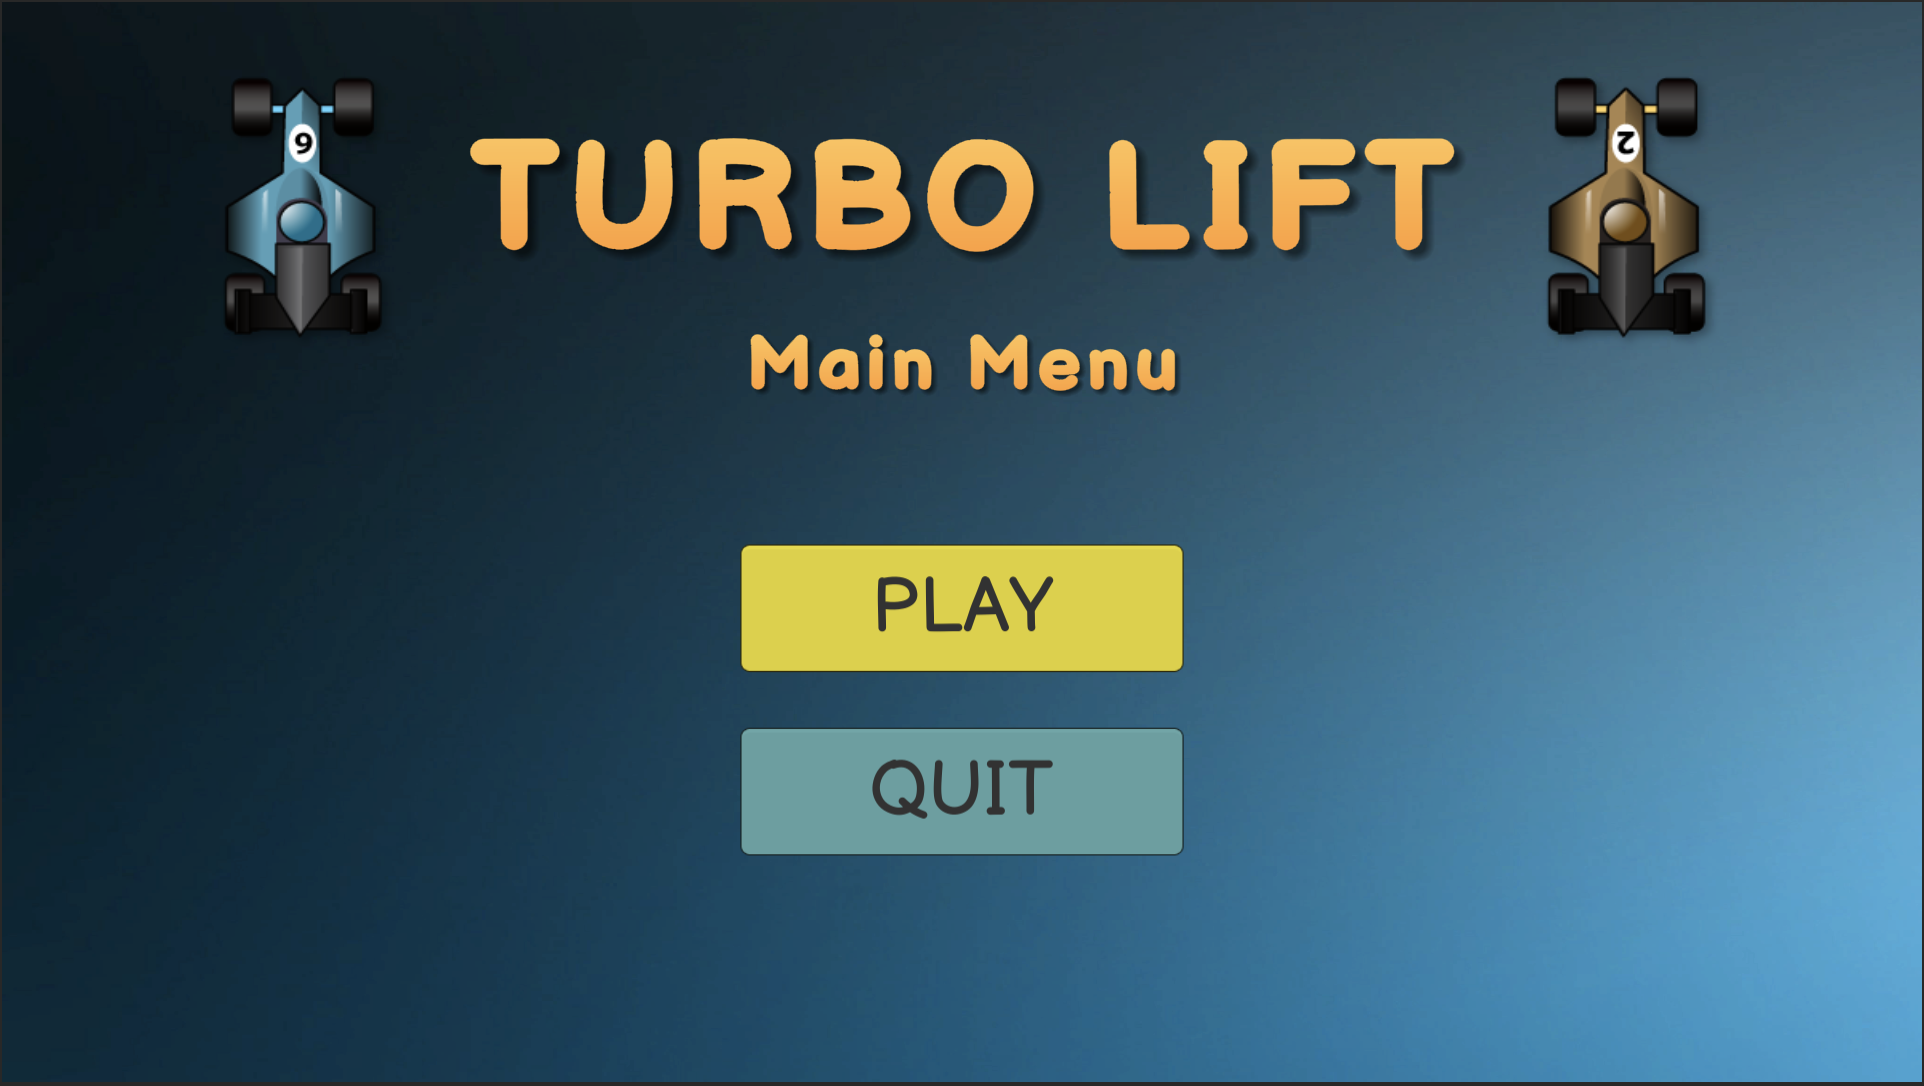
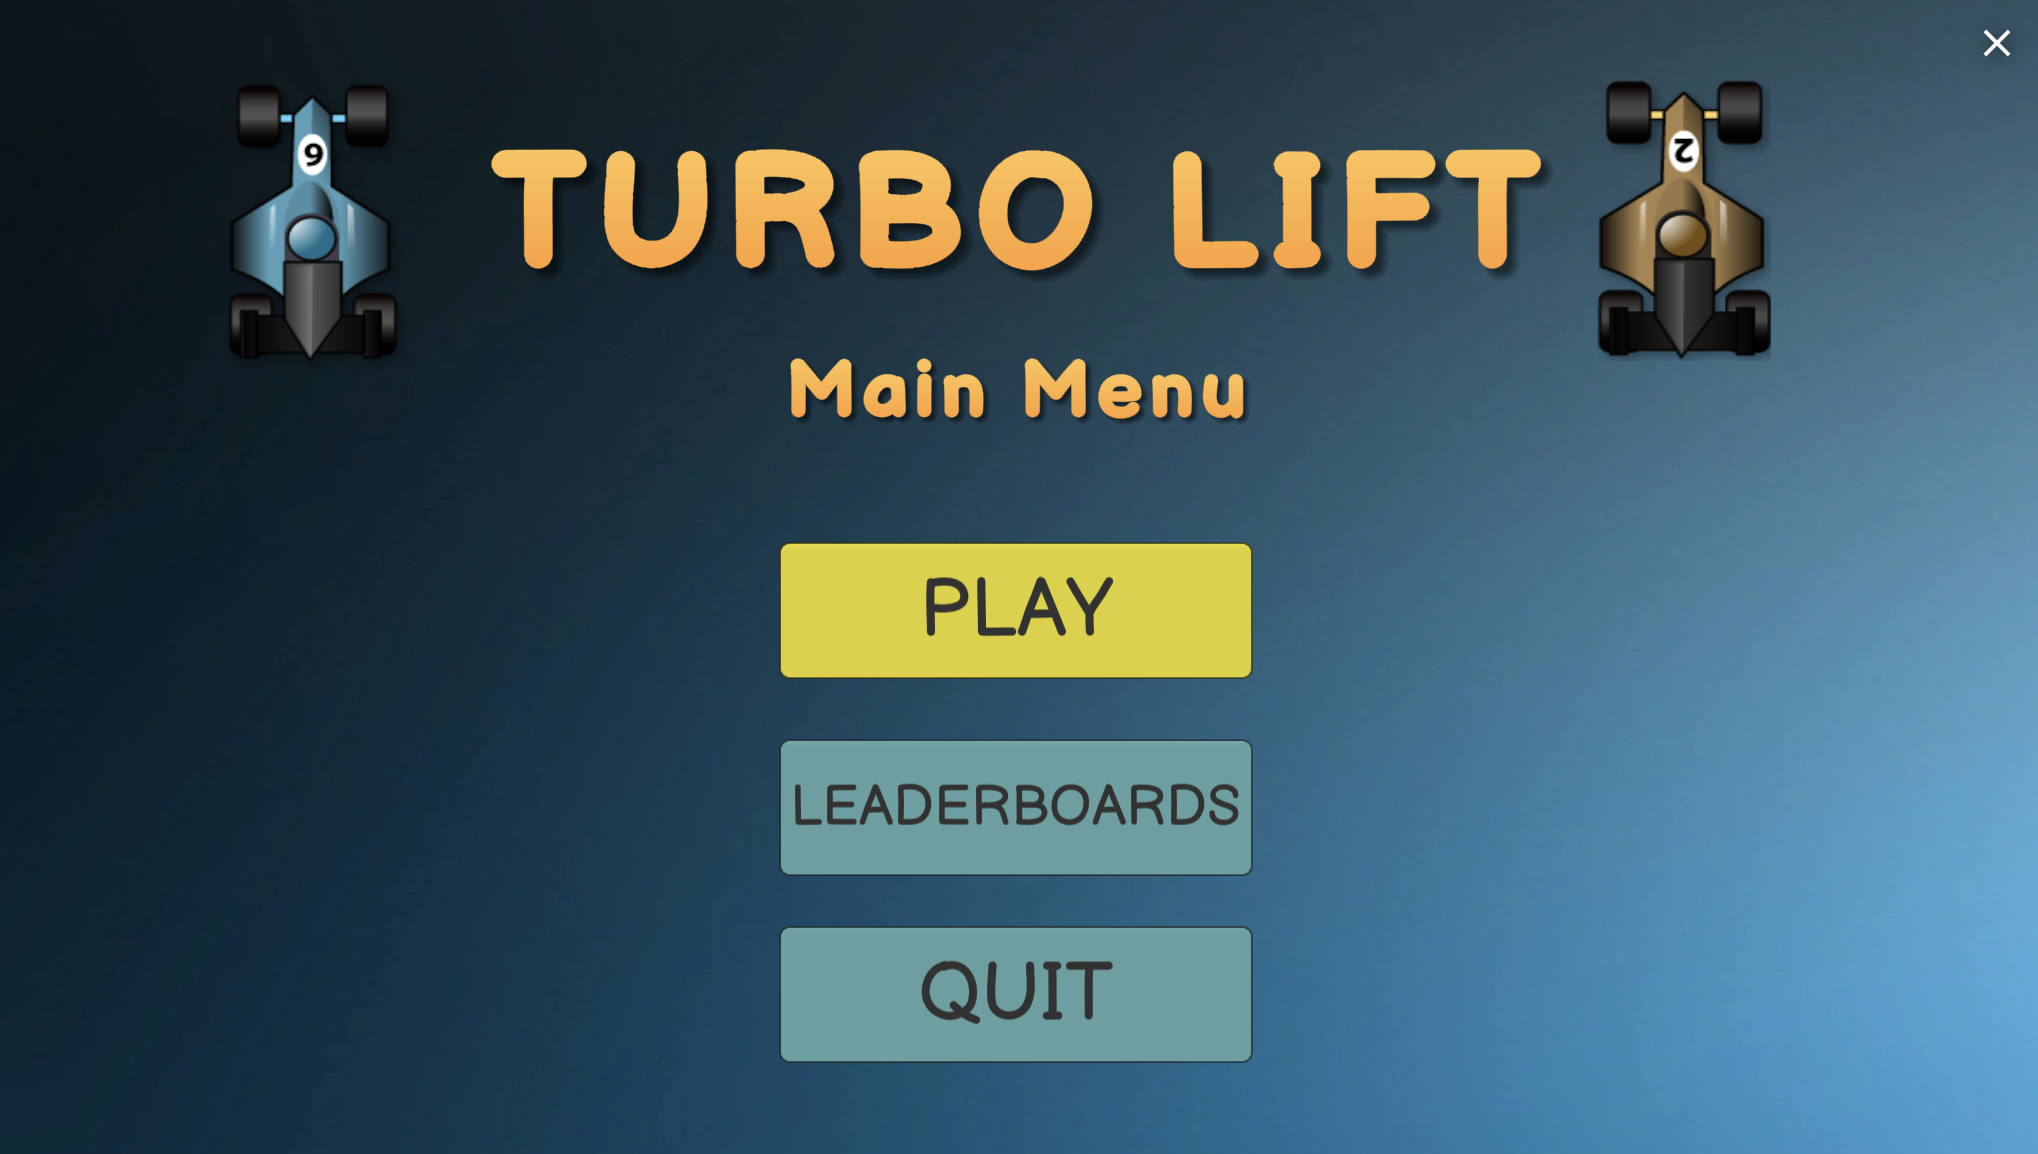
update readme

diff --git a/README.md b/README.md
@@ -3,21 +3,29 @@
 </p>
 
 <h1 align="center"> Turbo Lift </h1>
-<h3 align="center"> Bilal Afzaal </h3>
+<h2 align="center"> Group Members: </h3>
+<h3 align="center"> Bilal Afzaal - bafzaal </h3>
+<h3 align="center"> Osman Abdalle - oabdalle </h3>
+<h3 align="center"> Jayson Pols - jpols </h3>
+
 <h4 align="center"> PLAY HERE: </h4>
-<h6 align="center"><a href="https://play.unity.com/mg/other/turbo-lift-v1">https://play.unity.com/mg/other/turbo-lift-v1</a></h6>
+<h6 align="center"><a href="https://play.unity.com/mg/other/turbolift">https://play.unity.com/mg/other/turbolift</a></h6>
 
 
 <!-- TABLE OF CONTENTS -->
 ## Table of Contents
 
-* [About the Project](#about-the-project)
-  * [Overview](#overview)
-  * [App Screenshots](#app-screenshots)
-  * [Built With](#built-with)
-* [How To Play](#how-to-play)
-  * [Objective](#objective)
-  * [Controls](#controls)
+- [Table of Contents](#table-of-contents)
+- [About The Project](#about-the-project)
+  - [Overview](#overview)
+  - [App Screenshots](#app-screenshots)
+  - [Built With](#built-with)
+- [How To Play](#how-to-play)
+  - [Objective](#objective)
+  - [HUD](#hud)
+  - [Gameplay](#gameplay)
+  - [Maps](#maps)
+  - [Controls](#controls)
 
 <!-- ABOUT THE PROJECT -->
 ## About The Project
@@ -50,6 +58,7 @@ HUD Element             |  Description
 :-------------------------:|:-------------------------:
 <img src="READMEAssets/PassengerHUD.png" title="Passenger HUD" width="80px" height="40px">  | <p> First value indicates the amount of passengers that have been picked up and are currently in the Turbo Car. Second value indicates total amount of passengers on the map that need to be picked up.</p>
 <img src="READMEAssets/TimeHUD.png" title="Time HUD" width="170px" height="40px"> |  <p> Total elapsed time.</p>
+<img src="READMEAssets/speedometerHUD.png" title="Speed HUD" width="170px" height="40px"> |  <p> Speed of the Turbo Car.</p>
 
 ### Gameplay
 Game Element             |  Description
@@ -60,6 +69,7 @@ Game Element             |  Description
 <img src="READMEAssets/Mud.png" title="Mud" width="80px" height="80px"> |  <p> Be wary of the mud as it will slow the car down. Try to avoid it! </p>
 <img src="READMEAssets/Boost.png" title="Boost" width="80px" height="50px"> |  <p> Pick up the boost to go turbo! This will speed up your car and allow you to finish the track faster. </p>
 <img src="READMEAssets/CarSelect.png" title="Car Select" width="300px" height="100px"> |  <p> Find the car of your choice in the car select screen. Each car has their own stats for acceleration and handling. </p>
+<img src="READMEAssets/leaderboards-image.png" title="Leaderboards" width="300px" height="100px"> |  <p> View the best TurboLift players for each map. </p>
 
 ### Maps
 
